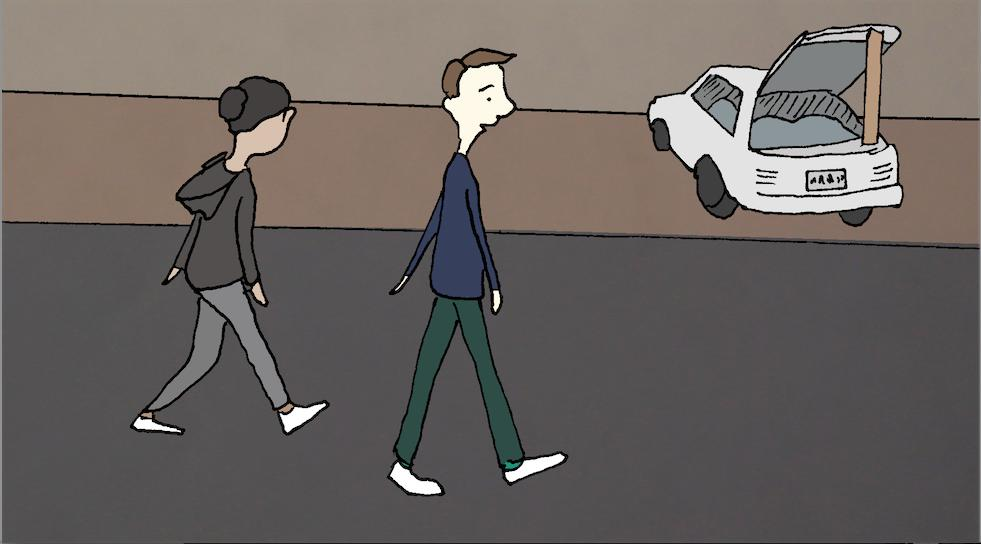
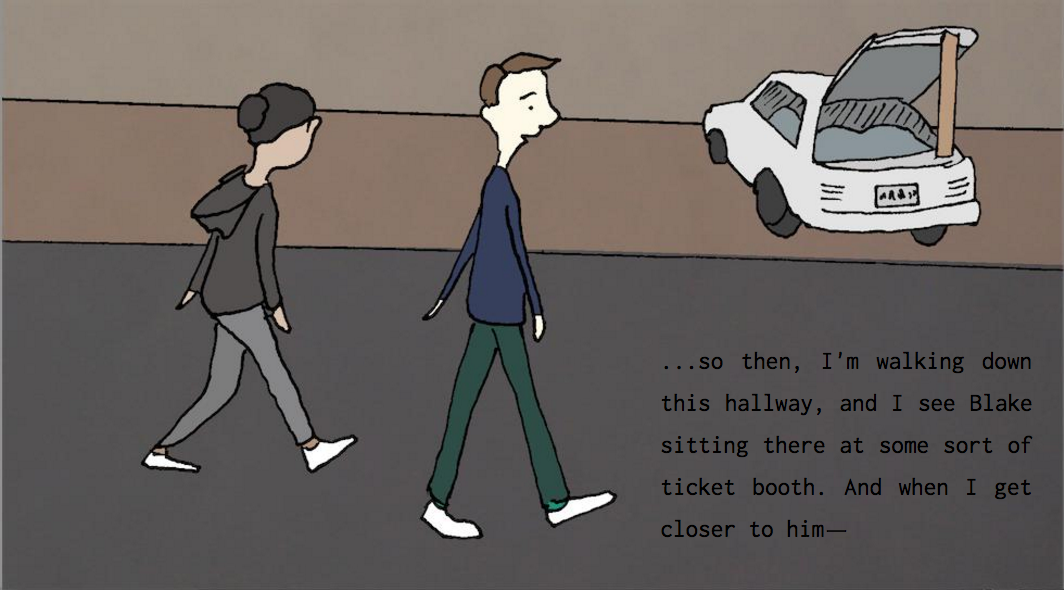
better comic text

diff --git a/_posts/2014-03-20-wait-stand-here.html b/_posts/2014-03-20-wait-stand-here.html
@@ -11,21 +11,21 @@ css: wait-stand-here
 <div id="comic">
     <div class="page">
         <img class="frame center" src="/assets/images/wait-stand-here/A1.png">
-        <span id="w-1" class="text">...so then, I'm walking down this hallway, and I see Blake sitting there at some sort of ticket booth. And when I get closer to him&mdash;</span>
+        <!--<span id="w-1" class="text">...so then, I'm walking down this hallway, and I see Blake sitting there at some sort of ticket booth. And when I get closer to him&mdash;</span>-->
     </div>
     <div class="page">
         <img class="frame center" src="/assets/images/wait-stand-here/A2.png">
-        <span id="w-2a" class="text">Wait, stop here. Stand in front of this car.</span>
+        <!--<span id="w-2a" class="text">Wait, stop here. Stand in front of this car.</span>
         <span id="w-2b" class="text">Okay. Can I keep talking?</span>
-        <span id="w-2c" class="text">Sure.</span>
+        <span id="w-2c" class="text">Sure.</span>-->
     </div>
     <div class="page">
         <img class="frame center" src="/assets/images/wait-stand-here/A4.png">
-        <span id="w-3" class="text">So anyway, when I get closer to him, I start dancing. I'm trying to make him laugh, but he just stares at me.</span>
+        <!--<span id="w-3" class="text">So anyway, when I get closer to him, I start dancing. I'm trying to make him laugh, but he just stares at me.</span>-->
     </div>
     <div class="page">
         <img class="frame center" src="/assets/images/wait-stand-here/A3.png">
-        <span id="w-4a" class="text">Okay, we're good.</span>
-        <span id="w-4b" class="text">Yeah. It was a weird dream.</span>
+        <!--<span id="w-4a" class="text">Okay, we're good.</span>
+        <span id="w-4b" class="text">Yeah. It was a weird dream.</span>-->
     </div>
 </div>
